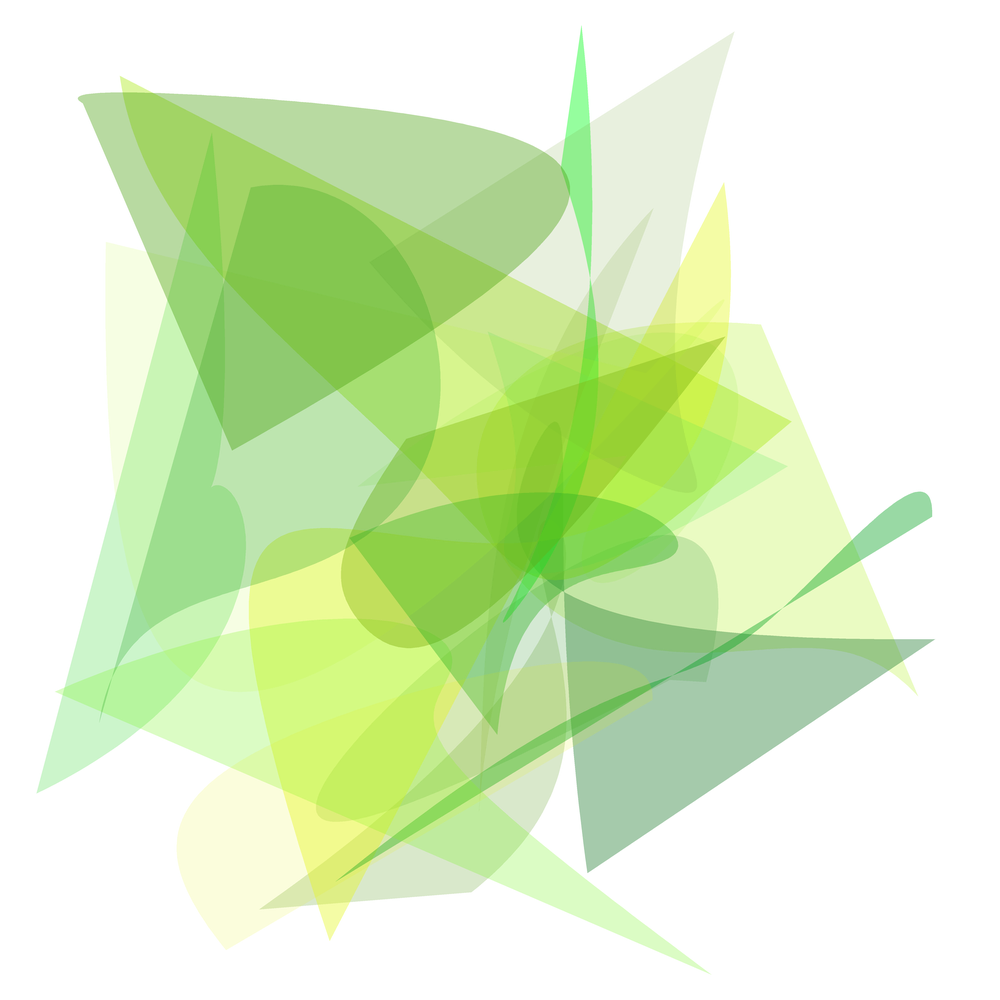
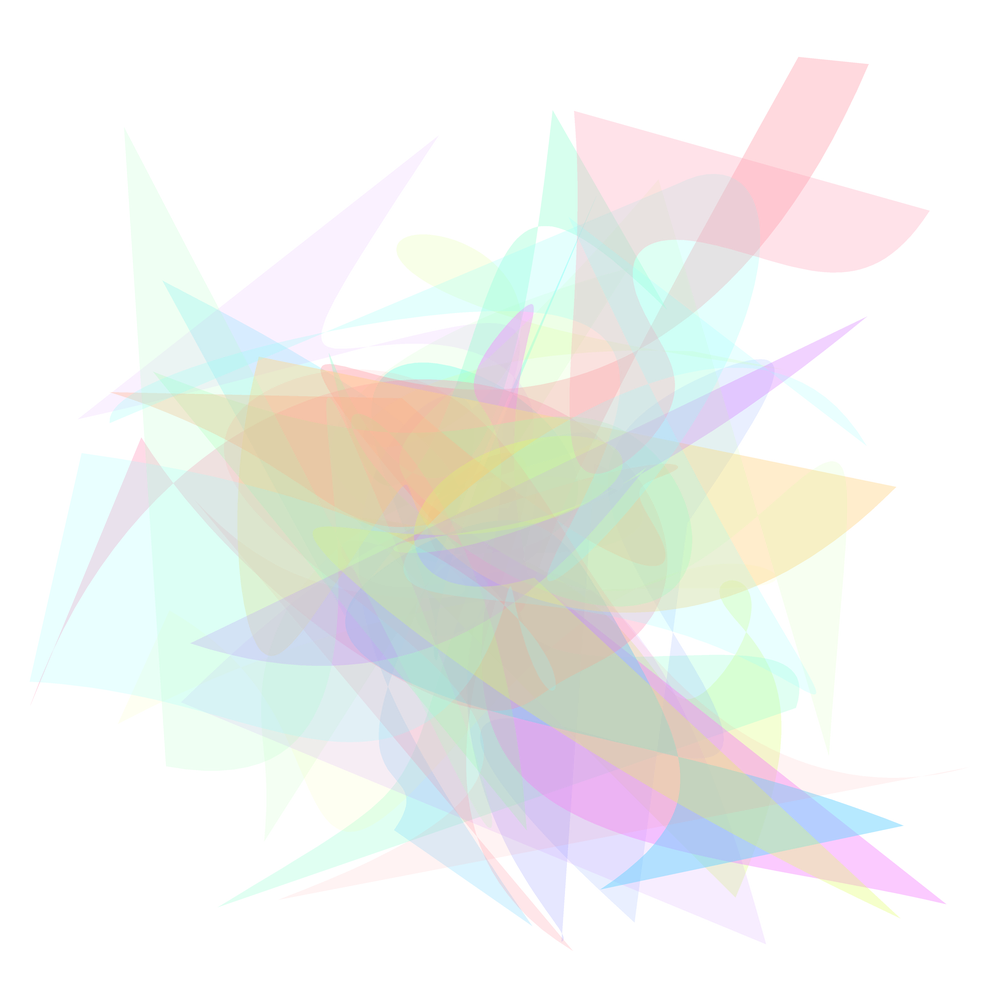
some renovations

diff --git a/shapestar.py b/shapestar.py
@@ -1,0 +1,59 @@
+import random
+
+from classes.ArtGenerator import ArtGenerator
+from PIL import Image, ImageDraw
+from tools.colors import *
+from tools.image_utils import create_points, points_along_line, n_shape, ray_star
+
+
+class Star(ArtGenerator):
+    def __init__(self, size, rays_num, width, color, steps, bend, radius, box=True, centered=True):
+        super().__init__(size=size,
+                         points_num=rays_num,
+                         accuracy=0.005,
+                         width=width,
+                         color=color,
+                         steps=steps)
+
+        self.bend = bend
+        self.box = box
+        self.centered = centered
+        self.points = ray_star(center=(self.image.size[0]//2, self.image.size[1]//2),
+                               rays_num=rays_num,
+                               radius=radius * 5)
+        self.curves = []
+
+    def main(self, dots=False, centered=False, draw=True):
+        for line in self.points[1:]:
+
+            self.points_func = lambda: points_along_line(image=self.image,
+                                                         points_num=self.bend,
+                                                         start=line[0],
+                                                         end=line[1],
+                                                         box=self.box)
+
+            super().main(centered=self.centered, draw=True)
+
+            polygon = Image.new('RGBA', self.image.size, (0, 0, 0, 0))
+            polygon_color = add_transparency(self.color(), random.randint(10, 30)/100)
+            ImageDraw.Draw(polygon).polygon(self.curve.curve, fill=polygon_color)
+
+            self.curve.image = polygon
+            self.image = Image.alpha_composite(self.image, self.curve.image)
+
+
+if __name__ == '__main__':
+    art = Star(
+        size=1000,
+        rays_num=9,
+        width=lambda: random.randint(1, 5),
+        color=random_pastel,
+        steps=25,
+        bend=2,
+        radius=300,
+        box=True,
+        centered=False
+    )
+
+    art.create()
+    art.get_image().save('images/shapestar.png')

diff --git a/curvature.py b/curvature.py
@@ -6,7 +6,7 @@ from tools.image_utils import points_along_line, calculate_offset, create_box
 
 
 class Curvature(ArtGenerator):
-    def __init__(self, size, points_num, width, steps, color, color_change=True,
+    def __init__(self, size, points_num, width, steps, color,
                  start=None, end=None, draw_rect=True, box=False):
 
         super().__init__(size=size,
@@ -16,11 +16,13 @@ class Curvature(ArtGenerator):
                          steps=steps,
                          width=width)
 
-        self.color_change = color_change
         self.start = [i * 5 for i in start]
         self.end = [i * 5 for i in end]
         self.points_func = lambda: points_along_line(self.image, self.points_num, self.start, self.end, box=box)
         self.draw_rect = draw_rect
+
+    def main(self, dots=False, centered=True, draw=True):
+        super().main(centered=False)
 
     def create(self):
         super().create()
@@ -49,15 +51,14 @@ if __name__ == '__main__':
     # end = [size - indent, size - indent]
 
     curvature = Curvature(size=size,
-                          points_num=25,
+                          points_num=5,
                           start=start,
                           end=end,
-                          color=random_green,
-                          color_change=True,
+                          color=random_blue,
                           width=lambda: random.randint(1, 15),
                           draw_rect=True,
                           box=True,
-                          steps=10)
+                          steps=20)
 
     off_x, off_y = calculate_offset(curvature.image, create_box(curvature.start, curvature.end))
     curvature.start = [curvature.start[0] + off_x, curvature.start[1] - off_y]

diff --git a/shapes.py b/shapes.py
@@ -7,12 +7,12 @@ from tools.image_utils import create_points
 
 
 class Shapes(ArtGenerator):
-    def __init__(self, size, points_num, steps, width, color):
+    def __init__(self, size, points_num, steps, color):
         super().__init__(size=size,
                          points_num=points_num,
                          accuracy=0.005,
                          steps=steps,
-                         width=width,
+                         width=lambda: 0,
                          color=color)
 
         self.points_func = lambda: create_points(self.image, self.points_num)
@@ -31,10 +31,9 @@ if __name__ == '__main__':
     size = 1000
 
     img = Shapes(size=size,
-                 points_num=5,
-                 steps=20,
-                 width=lambda: -1,
-                 color=random_green)
+                 points_num=10,
+                 steps=30,
+                 color=random_pastel)
 
     img.create()
     img.get_image().save('images/shape.png')

diff --git a/spiral.py b/spiral.py
@@ -30,9 +30,6 @@ def kaleidoscope(size, start, radius, angle, smoothness, color, width,
         spiral.color = color()
         spiral.width = width()
         spiral.radius += 5
-        #spiral.start[0] += random.randint(1, 10)
-        #spiral.start[1] += random.randint(1, 10)
-        # spiral.off_y = random.randint(1, 10)
 
         spiral.draw(image)
 
@@ -40,17 +37,17 @@ def kaleidoscope(size, start, radius, angle, smoothness, color, width,
 
 
 if __name__ == '__main__':
-    angle = random.randint(1, 60)
+    angle = random.randint(1, 30)
 
     spiral = kaleidoscope(
         size=1000,
         start=(500, 500),
         radius=200,
         angle=angle,
-        smoothness=100,
-        color=random_pastel,
-        width=lambda: random.randint(1, 2),
-        offset_x=2,
+        smoothness=8,
+        color=random_red,
+        width=lambda: random.randint(4, 5),
+        offset_x=20,
         offset_y=10
     )
 

diff --git a/star.py b/star.py
@@ -31,14 +31,21 @@ class Star(ArtGenerator):
                                                          box=self.box)
             super().main(centered=self.centered)
 
+            polygon = Image.new('RGBA', self.image.size, (0, 0, 0, 0))
+            polygon_color = add_transparency(self.color(), random.randint(1, 5) / 100)
+            ImageDraw.Draw(polygon).polygon(self.curve.curve, fill=polygon_color)
+
+            self.curve.image = polygon
+            self.image = Image.alpha_composite(self.image, self.curve.image)
+
 
 if __name__ == '__main__':
     art = Star(
         size=1000,
         rays_num=11,
-        width=lambda: random.randint(1, 5),
+        width=lambda: random.randint(1, 3),
         color=random_blue,
-        steps=100,
+        steps=25,
         bend=2,
         radius=300,
         box=True,

diff --git a/classes/Сurve.py b/classes/Сurve.py
@@ -16,13 +16,13 @@ class Curve:
         self.image = None
 
     def create_curve(self):
-        """Creates curve from given points (attribute curve) and returns points of curve"""
+        """Creates curve from given points (attribute curve) and returns points of curve."""
         curve = [tuple(i) for i in create_curve(self.t_points, self.points)]
         self.curve = curve
         return curve
 
     def offset(self, img):
-        """Offsets curve to center"""
+        """Offsets curve to center."""
         off_x, off_y = calculate_offset(img, self.curve)
         points = [(self.curve[i][0] + off_x, self.curve[i][1] - off_y) for i in range(len(self.curve))]
         self.curve = points

diff --git a/test.py b/test.py
@@ -28,6 +28,7 @@ if __name__ == '__main__':
         color=random_red,
     )
 
-    art.points_func = lambda: n_shape((500, 500), 3, 1500, numpy=True)
-    art.create()
+    for i in range(100):
+        art.points_func = lambda: n_shape((500 + random.randint(-100, 100), 500 + random.randint(-100, 100)), 3, 1500, numpy=True)
+        art.create()
     art.get_image().show()

diff --git a/curves_and_lines.py b/curves_and_lines.py
@@ -37,7 +37,7 @@ if __name__ == '__main__':
                             lines=300,
                             steps=10,
                             width=lambda: 5,
-                            color=random_red)
+                            color=random_pastel)
 
     my_img.points_func = lambda: create_points(my_img.image, my_img.points_num)
     my_img.create()
